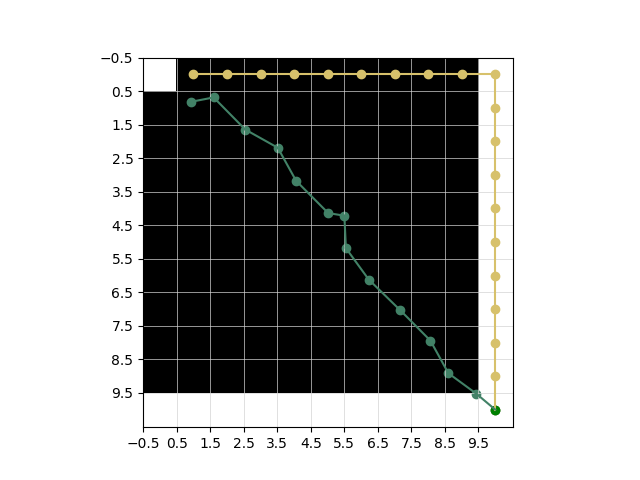
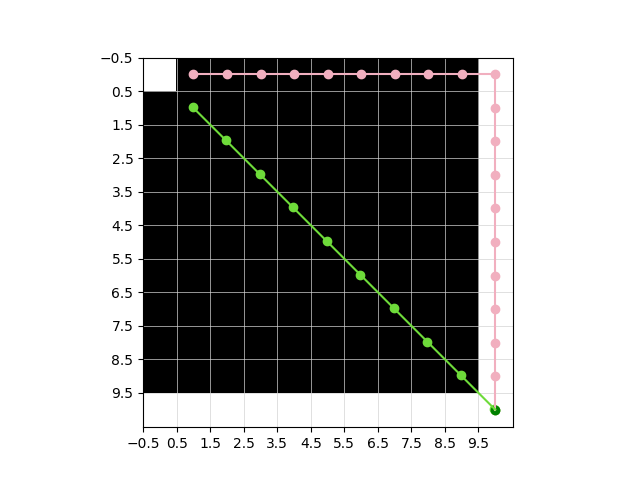
fixed td3_bc

diff --git a/experiments/td3_bc.py b/experiments/td3_bc.py
@@ -9,8 +9,11 @@ from stable_baselines3.common.off_policy_algorithm import OffPolicyAlgorithm
 from stable_baselines3.common.policies import ActorCriticPolicy
 from stable_baselines3.common.type_aliases import GymEnv, MaybeCallback, Schedule
 from stable_baselines3.common.utils import polyak_update
-from stable_baselines3.td3 import TD3
+from stable_baselines3 import TD3
 from torch import nn
+import torch as th
+
+import numpy as np
 
 
 class TD3_BC(TD3):
@@ -31,6 +34,8 @@ class TD3_BC(TD3):
         policy_kwargs: Optional[Dict[str, Any]] = None,
         bc_coef: float = 0.5,  # BC coefficient for the policy objective
         alpha: float = 0.2,  # Temperature parameter for the policy objective
+        *args,
+        **kwargs,
     ):
         super().__init__(
             policy,
@@ -44,95 +49,74 @@ class TD3_BC(TD3):
             train_freq,
             gradient_steps,
             action_noise,
-            optimize_memory_usage,
-            policy_kwargs,
+            replay_buffer_class=ReplayBuffer,
+            optimize_memory_usage=optimize_memory_usage,
+            policy_kwargs=policy_kwargs,
         )
 
         self.bc_coef = bc_coef
         self.alpha = alpha
 
-    def train(self) -> None:
-        # Create the replay buffer
-        self.replay_buffer = ReplayBuffer(self.buffer_size, self.observation_space, self.action_space)
+    def train(self, gradient_steps: int, batch_size: int = 100) -> None:
+       # Switch to train mode (this affects batch norm / dropout)
+        self.policy.set_training_mode(True)
 
-        # Set up the learning rate schedule
-        self.lr_schedule = self._get_schedule(self.learning_rate, self.lr_schedule)
+        # Update learning rate according to lr schedule
+        self._update_learning_rate([self.actor.optimizer, self.critic.optimizer])
 
-        # Create the optimizer
-        self.optimizer = self._create_optimizer()
+        actor_losses, critic_losses = [], []
+        for _ in range(gradient_steps):
+            self._n_updates += 1
+            # Sample replay buffer
+            replay_data = self.replay_buffer.sample(batch_size, env=self._vec_normalize_env)  # type: ignore[union-attr]
 
-        # Initialize the target networks
-        self._create_aliases()
-        self._create_target_network()
+            with th.no_grad():
+                # Select action according to policy and add clipped noise
+                noise = replay_data.actions.clone().data.normal_(0, self.target_policy_noise)
+                noise = noise.clamp(-self.target_noise_clip, self.target_noise_clip)
+                next_actions = (self.actor_target(replay_data.next_observations) + noise).clamp(-1, 1)
 
-        # Initialize the variables
-        self._create_buffer()
+                # Compute the next Q-values: min over all critics targets
+                next_q_values = th.cat(self.critic_target(replay_data.next_observations, next_actions), dim=1)
+                next_q_values, _ = th.min(next_q_values, dim=1, keepdim=True)
+                target_q_values = replay_data.rewards + (1 - replay_data.dones) * self.gamma * next_q_values
 
-        # Set up the exploration strategy
-        self.exploration_noise = self._create_exploration_noise()
+            # Get current Q-values estimates for each critic network
+            current_q_values = self.critic(replay_data.observations, replay_data.actions)
 
-        # Initialize the episode reward and step count
-        episode_reward = 0.0
-        episode_steps = 0
+            # Compute critic loss
+            critic_loss = sum(F.mse_loss(current_q, target_q_values) for current_q in current_q_values)
+            assert isinstance(critic_loss, th.Tensor)
+            critic_losses.append(critic_loss.item())
 
-        # Initialize the total timesteps
-        self._total_timesteps = self._episode_num * self.env.max_episode_steps
-
-        # Start the training loop
-        while self._total_timesteps < self.total_timesteps:
-            # Perform a rollout
-            episode_reward, episode_steps = self._rollout(episode_reward, episode_steps)
-
-            # Update the target networks
-            if self._total_timesteps % self.target_update_interval == 0:
-                polyak_update(self.q_net_target.parameters(), self.q_net.parameters(), self.tau)
-
-            # Train the policy and Q networks
-            self._train()
-
-            # Log the training progress
-            self._log_training_progress()
-
-    def _train(self) -> None:
-        for gradient_step in range(self.gradient_steps):
-            # Sample a batch of transitions from the replay buffer
-            batch = self.replay_buffer.sample(self.batch_size)
-
-            # Unpack the batch
-            obs, actions, rewards, next_obs, dones = batch
-
-            # Compute the target Q values
-            with torch.no_grad():
-                next_actions = self.policy_target(next_obs)
-                next_q_values = self.q_net_target(next_obs, next_actions)
-                target_q_values = rewards + (1 - dones) * self.gamma * next_q_values
-
-            # Compute the current Q values
-            current_q_values = self.q_net(obs, actions)
-
-            # Compute the BC loss
-            bc_loss = self.policy.compute_bc_loss(obs, actions)
-
-            # Compute the Q loss
-            critic_loss = F.mse_loss(current_q_values, target_q_values)
-
-            # Optimize the Q network
-            self.optimizer.zero_grad()
+            # Optimize the critics
+            self.critic.optimizer.zero_grad()
             critic_loss.backward()
-            self.optimizer.step()
+            self.critic.optimizer.step()
 
-            # Compute the actor loss
-            lmbda = self.alpha/current_q_values.abs().mean().detach()
-            actor_loss = - lmbda * current_q_values + self.bc_coef * bc_loss
+            # Delayed policy updates
+            if self._n_updates % self.policy_delay == 0:
+                # Compute actor loss
+                actor_loss = -self.critic.q1_forward(replay_data.observations, self.actor(replay_data.observations)).mean() + self.bc_coef * self.compute_bc_loss(replay_data.observations, replay_data.actions)
+                actor_losses.append(actor_loss.item())
 
-            # Optimize the policy network
-            self.optimizer.zero_grad()
-            actor_loss.backward()
-            self.optimizer.step()
+                # Optimize the actor
+                self.actor.optimizer.zero_grad()
+                actor_loss.backward()
+                self.actor.optimizer.step()
 
-            # Update the target networks
-            if gradient_step % self.target_update_interval == 0:
-                polyak_update(self.q_net_target.parameters(), self.q_net.parameters(), self.tau)
+                polyak_update(self.critic.parameters(), self.critic_target.parameters(), self.tau)
+                polyak_update(self.actor.parameters(), self.actor_target.parameters(), self.tau)
+                # Copy running stats, see GH issue #996
+                polyak_update(self.critic_batch_norm_stats, self.critic_batch_norm_stats_target, 1.0)
+                polyak_update(self.actor_batch_norm_stats, self.actor_batch_norm_stats_target, 1.0)
+
+        self.logger.record("train/n_updates", self._n_updates, exclude="tensorboard")
+        if len(actor_losses) > 0:
+            self.logger.record("train/actor_loss", np.mean(actor_losses))
+        self.logger.record("train/critic_loss", np.mean(critic_losses))
+        self.logger.record("train/q_values", np.mean(current_q_values[0].cpu().detach().numpy()))
+
     
     def compute_bc_loss(self, obs, actions):
         # Behavior cloning loss

diff --git a/experiments/train_jsrl_offline.py b/experiments/train_jsrl_offline.py
@@ -13,6 +13,7 @@ os.environ["TQDM_DISABLE"] = "1"
 
 from experiments.gridworld import ContinuousGridworld
 from stable_baselines3 import SAC, TD3
+from experiments.td3_bc import TD3_BC
 from stable_baselines3.common.callbacks import EvalCallback
 from stable_baselines3.common.vec_env import DummyVecEnv
 
@@ -120,7 +121,7 @@ def main(seed, env_name, guide_steps, timesteps, student_env, strategy, grad_ste
     # The noise objects for TD3
     n_actions = env.action_space.shape[-1]
     
-    model = get_jsrl_algorithm(SAC)(
+    model = get_jsrl_algorithm(TD3_BC)(
         "MlpPolicy",
         env=env,
         policy_kwargs=dict(
@@ -171,6 +172,7 @@ def main(seed, env_name, guide_steps, timesteps, student_env, strategy, grad_ste
         timestep = 0
         while True and timestep < 100:
             action = policy.predict(state)
+            print(action)
             state, _, done, _, _ = pure_env.step(action)
             x_path.append(state[0])
             y_path.append(state[1])
@@ -200,7 +202,7 @@ if __name__ == "__main__":
     parser.add_argument("--seed", type=int, default=0, help="Random seed")
     parser.add_argument("--guide_env", type=str, default="coffee-button-v2-goal-observable", help="Environment name")
     parser.add_argument("--guide_steps", type=str, default="best_model", help="Number of steps (Expertise) of the guide policy")
-    parser.add_argument("--timesteps", type=int, default=5e4, help="Number of timesteps to train the agent for")
+    parser.add_argument("--timesteps", type=int, default=54, help="Number of timesteps to train the agent for")
     parser.add_argument("--student_env", type=str, default="coffee-button-v2-goal-observable", help="Environment name")
     parser.add_argument("--strategy", type=str, default="curriculum", help="The strategy to use")
     parser.add_argument("--grad_steps", type=int, default=1, help="Number of gradient steps to take")
